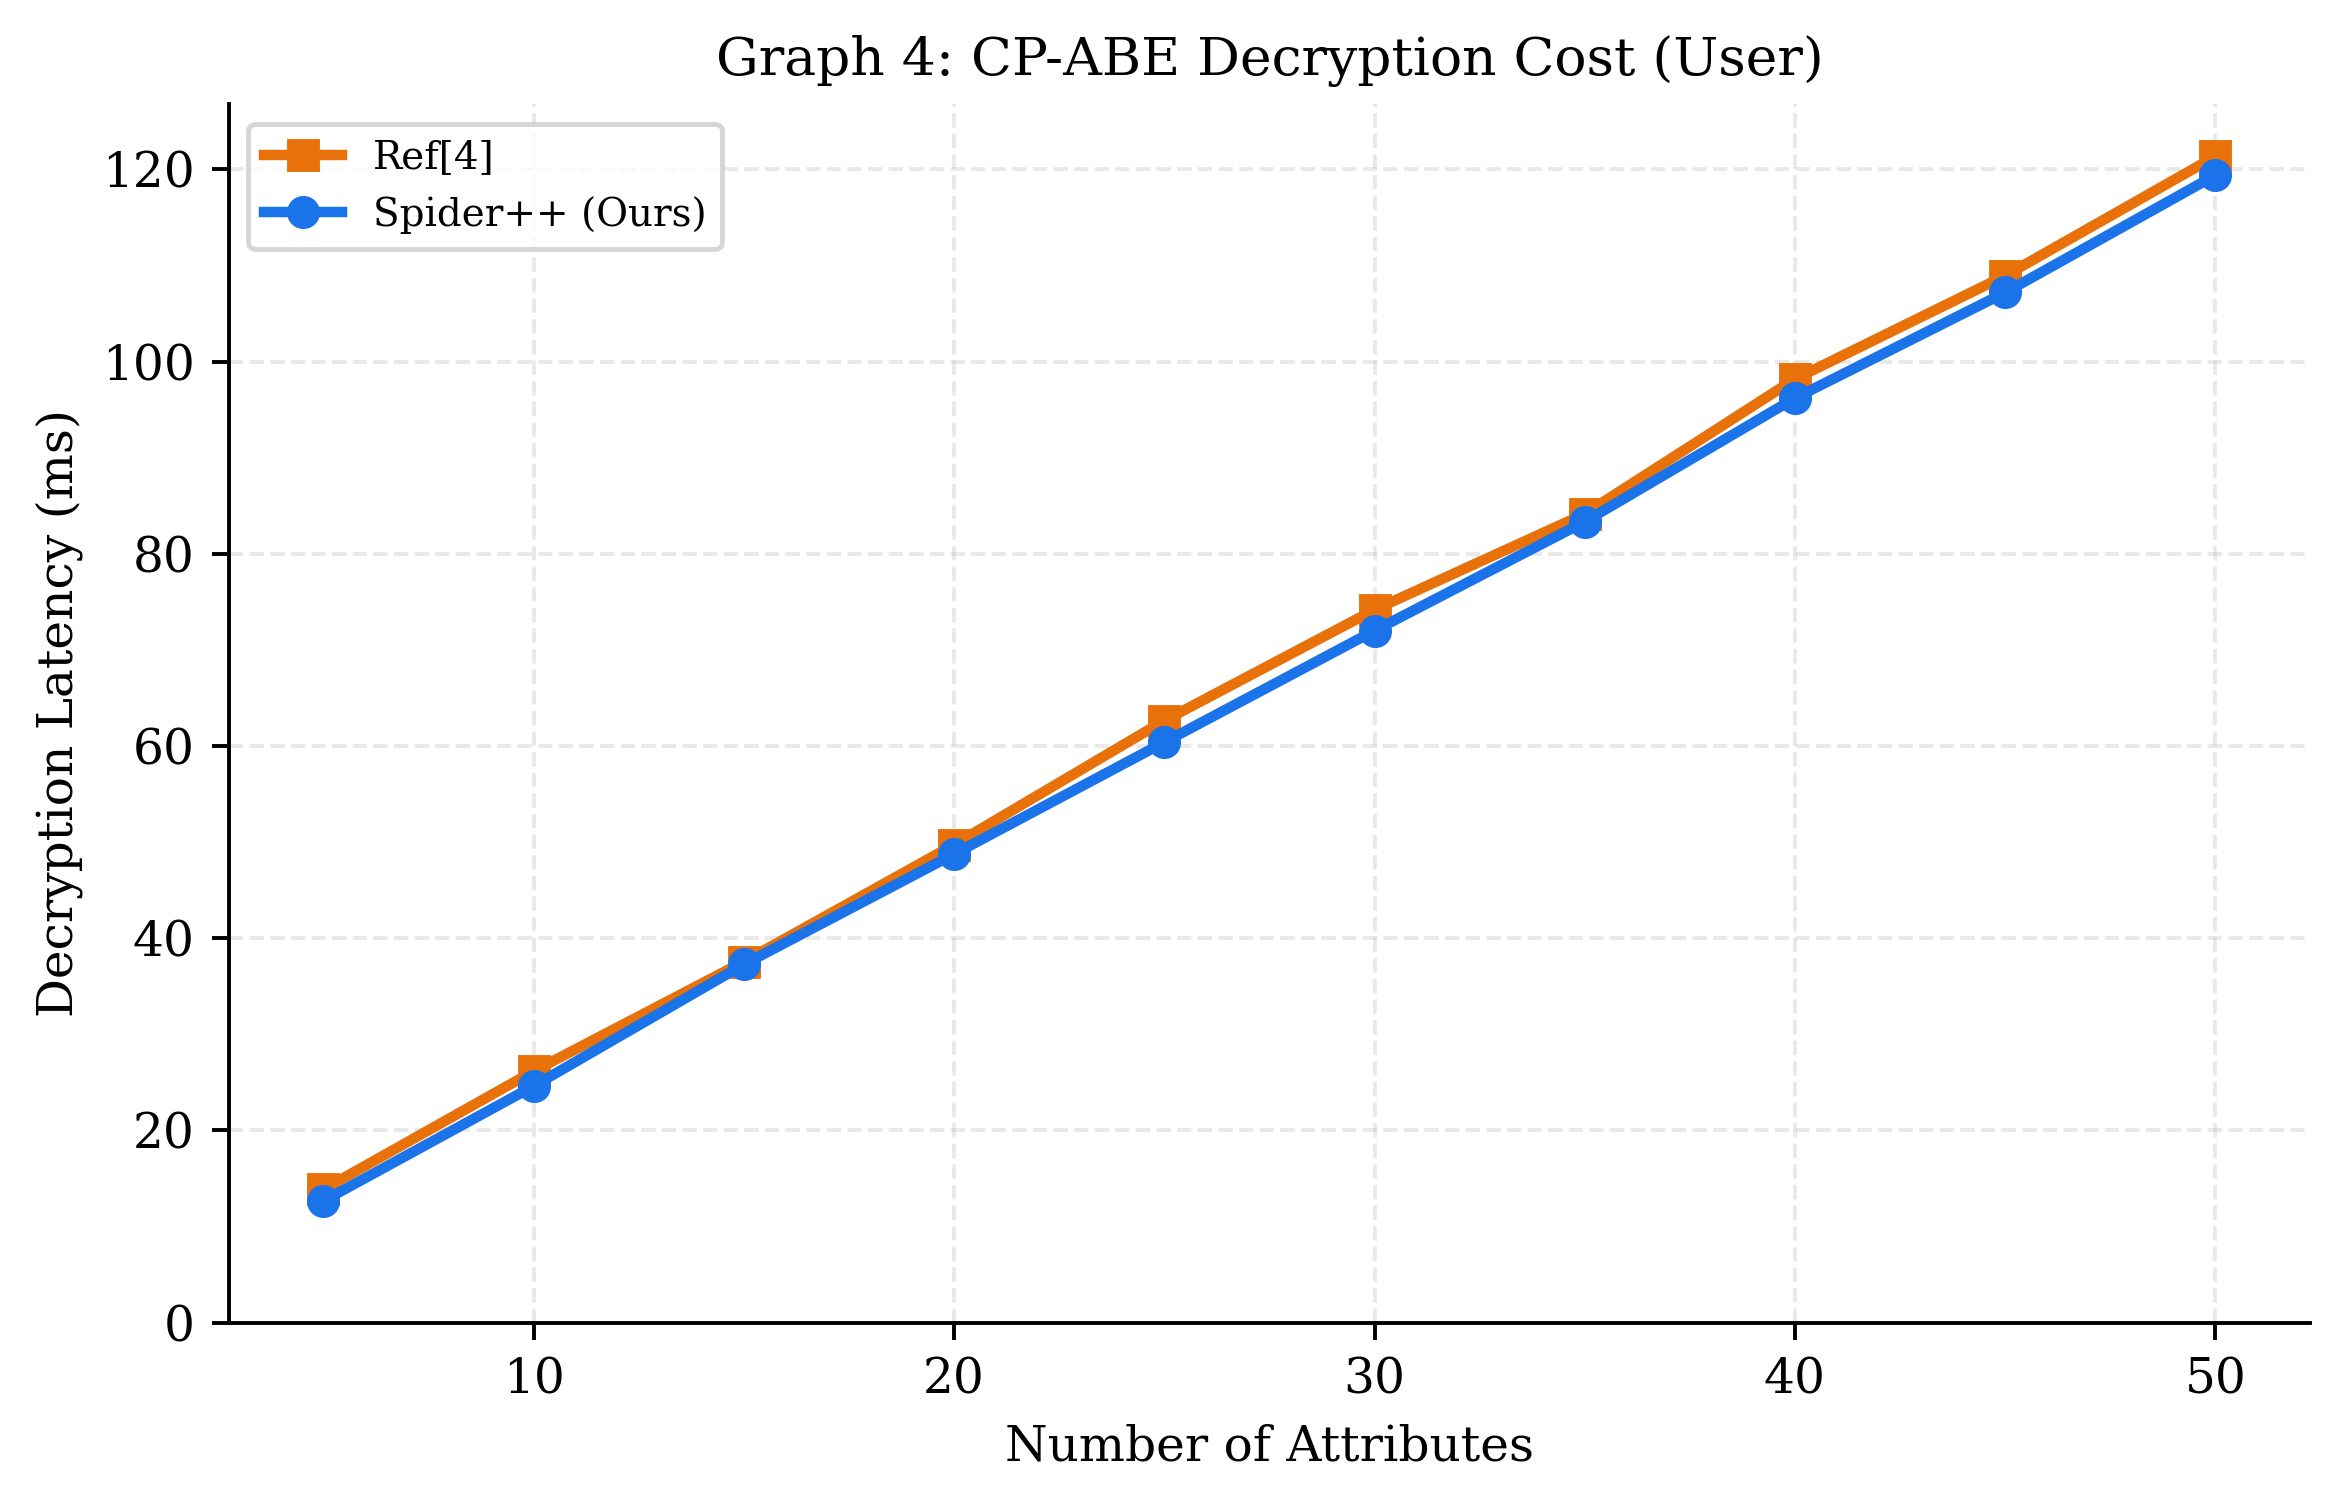
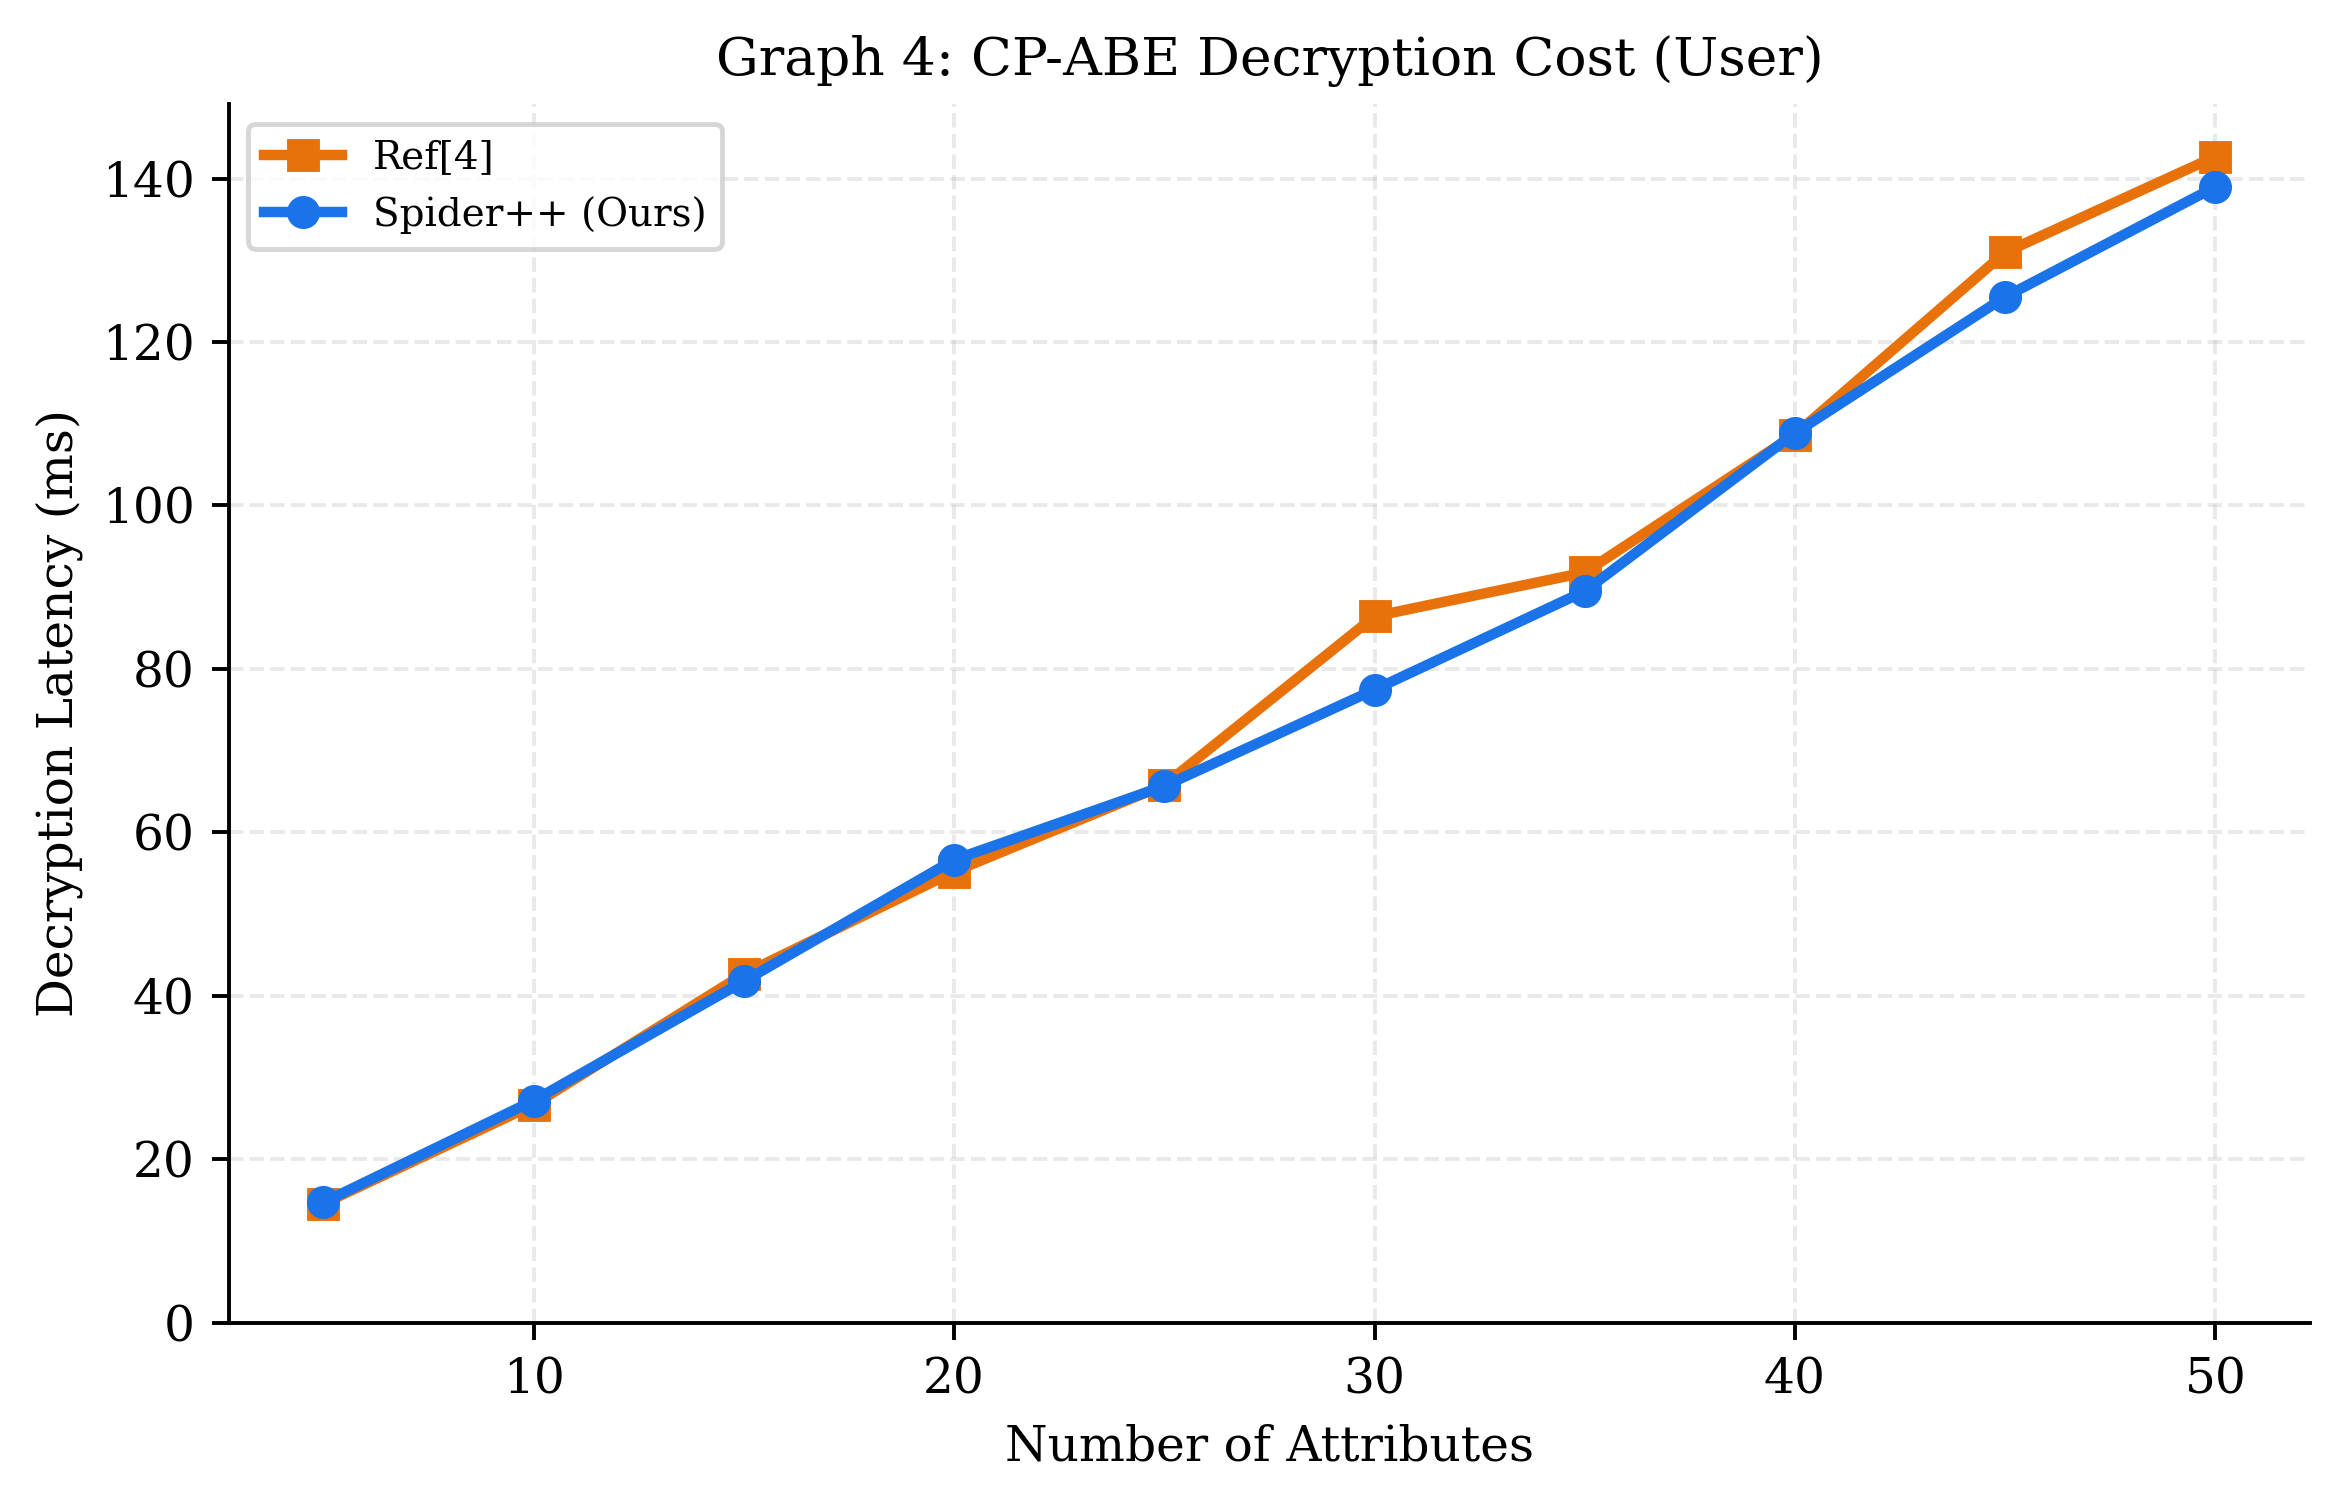
graph

diff --git a/bugtest.py b/bugtest.py
@@ -1,4 +1,4 @@
-# test_decisions_v2.py — includes execute step like the real simulation
+# bugtest.py
 import sys
 from pathlib import Path
 sys.path.insert(0, str(Path(__file__).parent))
@@ -29,27 +29,16 @@ for alg in ["Round-Robin", "Least-Queue", "Spider++ (Ours)"]:
         latencies.append(lat)
     results[alg] = (seq, latencies)
 
-print("First 20 decisions:")
-for alg, (seq, _) in results.items():
-    print(f"  {alg[:18]:18s}: {seq[:20]}")
-
 from collections import Counter
-print("\nDistribution across enclaves:")
+print("Distribution:")
 for alg, (seq, _) in results.items():
-    c = Counter(seq)
-    print(f"  {alg[:18]:18s}: {dict(sorted(c.items()))}")
+    print(f"  {alg[:18]:18s}: {dict(sorted(Counter(seq).items()))}")
 
 print("\nMean latency:")
 for alg, (_, lats) in results.items():
     print(f"  {alg[:18]:18s}: {np.mean(lats):.1f} ms")
 
-# Critical: are decision sequences and latencies different?
-rr_seq = results["Round-Robin"][0]
-sp_seq = results["Spider++ (Ours)"][0]
-lq_seq = results["Least-Queue"][0]
-print(f"\nDecisions different? Spider++ vs RR: {rr_seq != sp_seq}, vs LQ: {lq_seq != sp_seq}")
-
 rr_lat = np.mean(results["Round-Robin"][1])
 sp_lat = np.mean(results["Spider++ (Ours)"][1])
 lq_lat = np.mean(results["Least-Queue"][1])
-print(f"Latency gap: Spider++ vs RR: {(rr_lat-sp_lat)/rr_lat*100:.1f}%, vs LQ: {(lq_lat-sp_lat)/lq_lat*100:.1f}%")
+print(f"\nLatency gap: Spider++ vs RR: {(rr_lat-sp_lat)/rr_lat*100:.1f}%, vs LQ: {(lq_lat-sp_lat)/lq_lat*100:.1f}%")

diff --git a/run_all_graphs.py b/run_all_graphs.py
@@ -36,10 +36,10 @@ def run_all_graphs():
     graph2_cache_reuse(rng)
     print("  ✓ Graph 2 generated (phase3)")
 
-    #graph3_cpabe_encryption(rng)
+    graph3_cpabe_encryption(rng)
     #print("  ✓ Graph 3 generated (phase5)")
 
-    #graph4_cpabe_decryption(rng)
+    graph4_cpabe_decryption(rng)
     #print("  ✓ Graph 4 generated (phase6)")
 
     graph_load_balancing(rng, graph_no=5, heterogeneous=False)